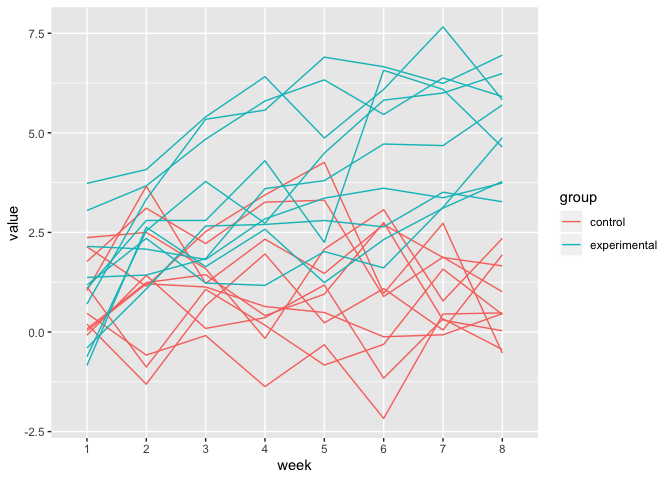
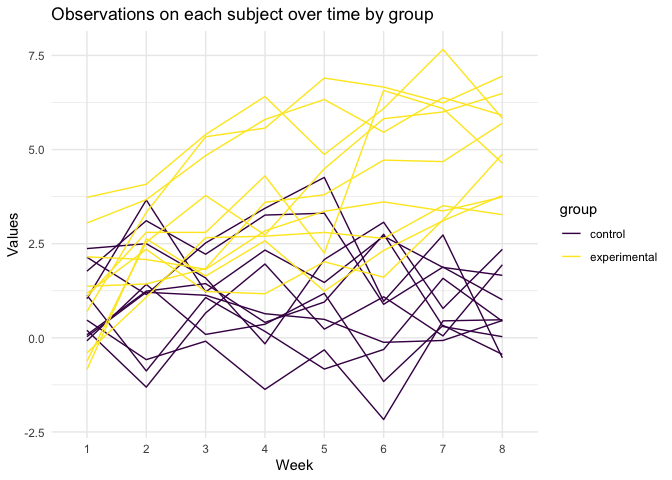
Cleaned up plot for problem 2

diff --git a/hw5.md b/hw5.md
@@ -51,7 +51,12 @@ p2_tidy_data =
 ``` r
 p2_tidy_data %>% 
   ggplot(aes(x = week, y = value, color = group, group = observation)) +
-  geom_line()
+  geom_line() +
+  scale_color_viridis(discrete = TRUE) +
+  theme_minimal() +
+  ggtitle("Observations on each subject over time by group") +
+  xlab("Week") +
+  ylab("Values") 
 ```
 
 ![](hw5_files/figure-gfm/unnamed-chunk-5-1.png)<!-- -->
